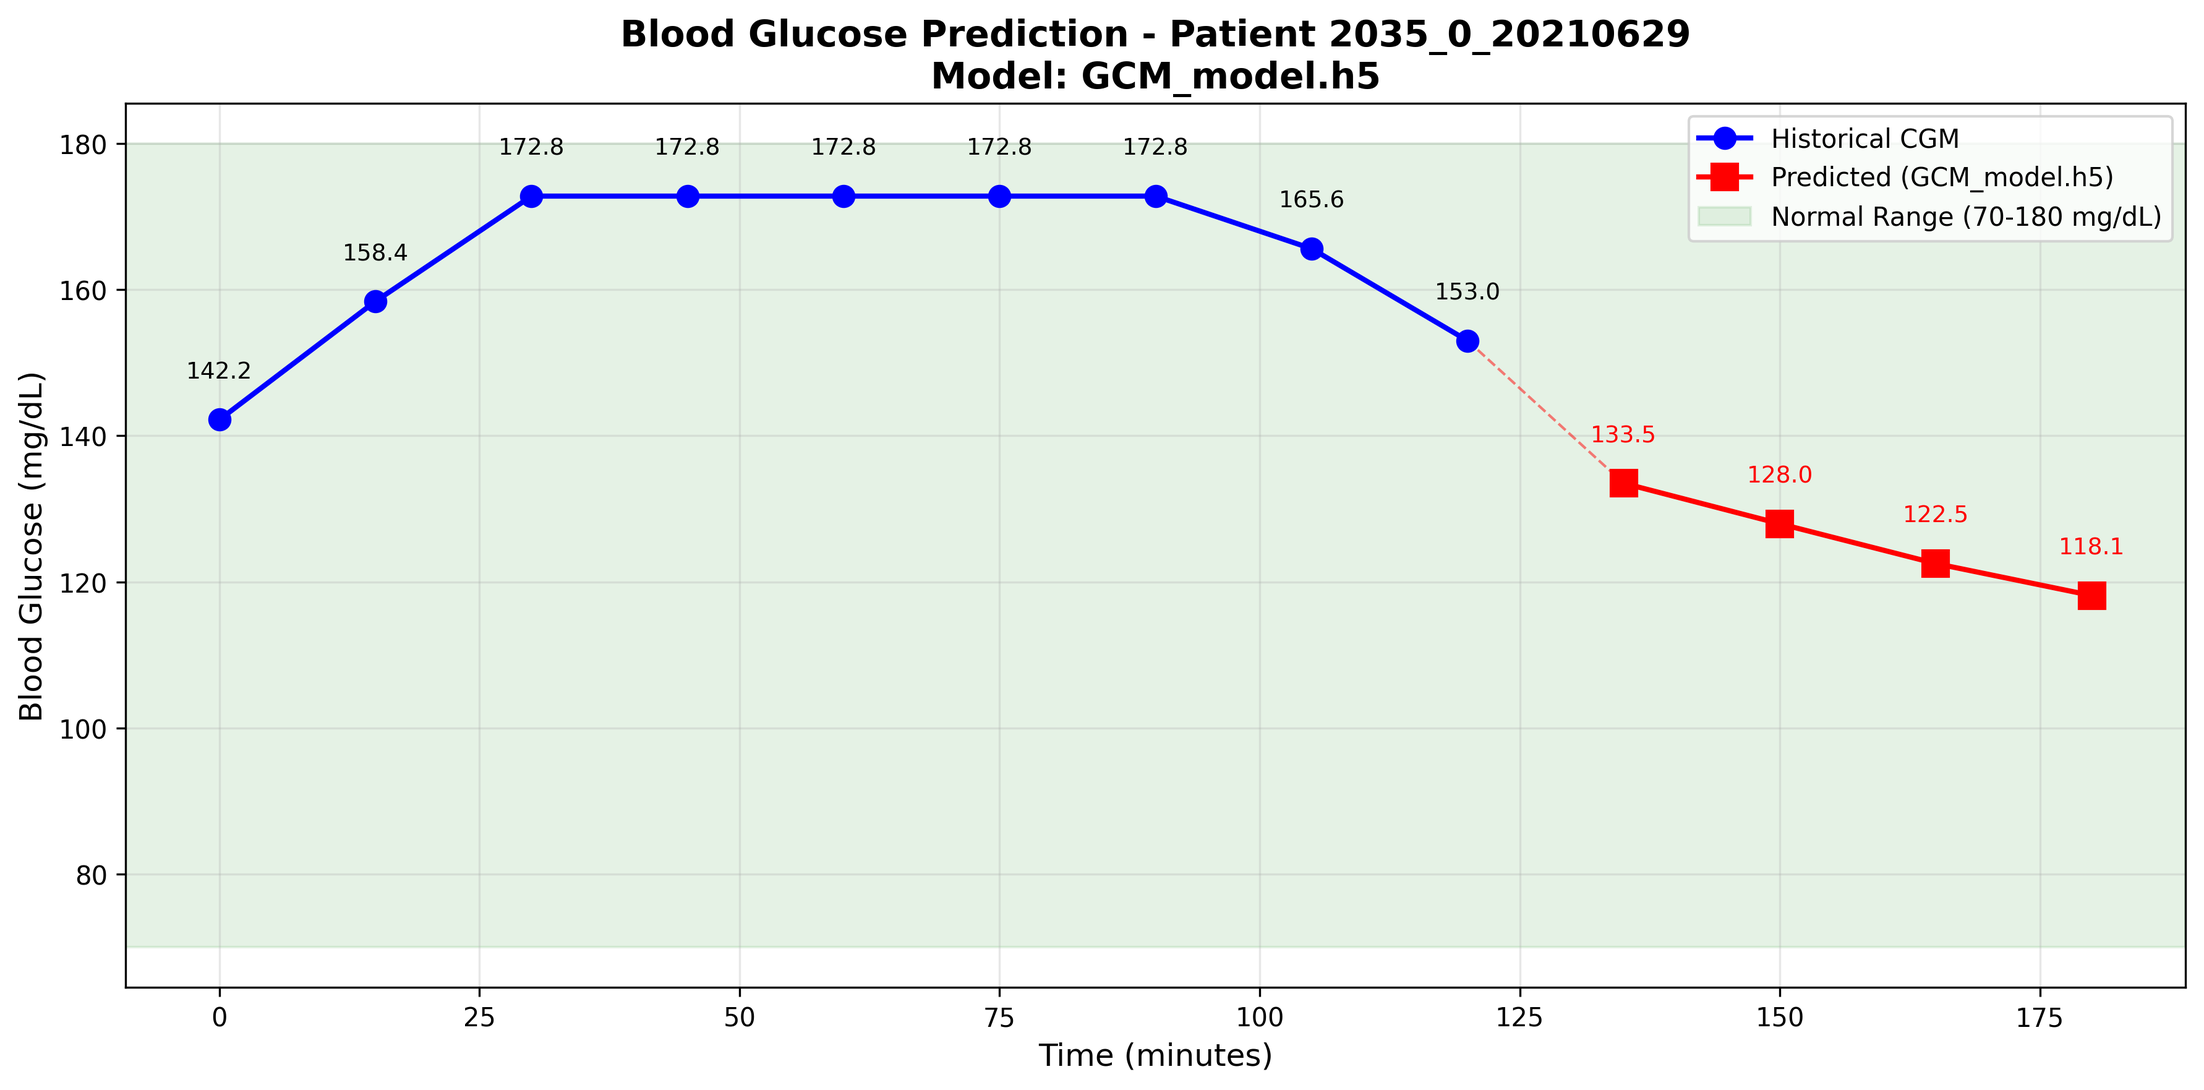
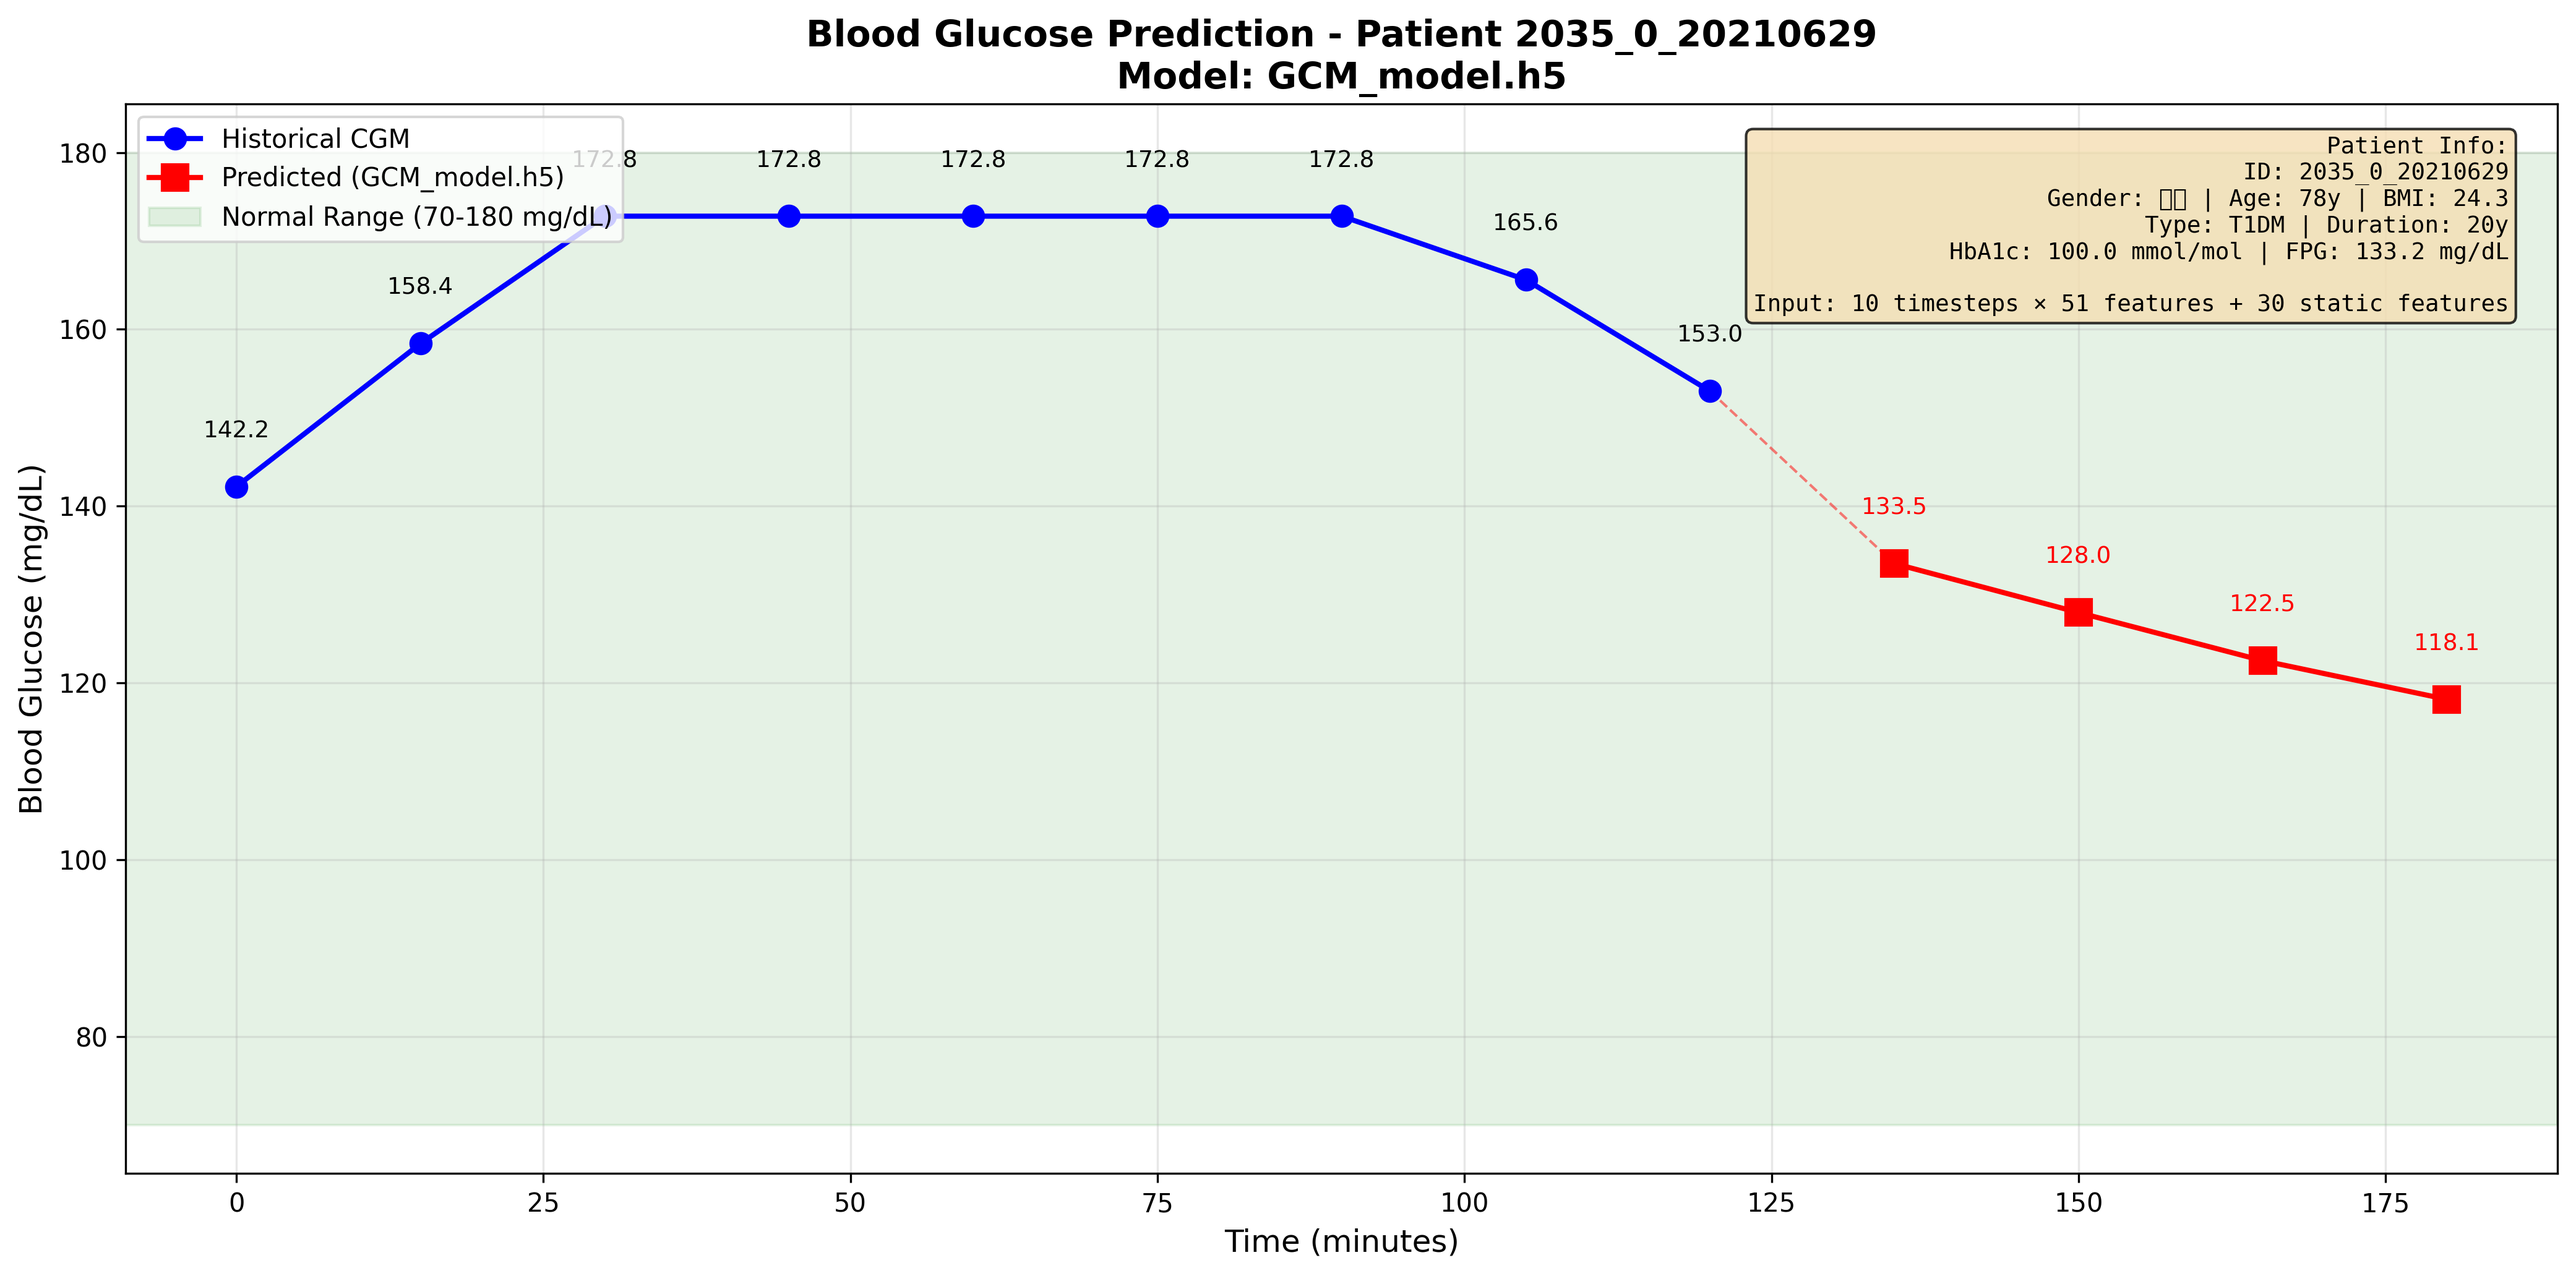
在图片上添加患者信息文本框
改进内容：
- 在所有预测图片右上角添加患者信息文本框
- 显示内容：
  * 患者ID、性别、年龄、BMI
  * 糖尿病类型和病程
  * HbA1c和空腹血糖
  * 模型输入数据维度
- 图片尺寸从(12, 6)增加到(14, 7)以容纳更多信息
- 调整legend位置到左上角避免与信息框重叠
- 使用等宽字体和圆角浅色背景增强可读性

文件更新：
- demo1_gcm_model.py
- demo2_gcm_model_tf213.py
- demo3_tflite_model.py (额外显示TFLite模型大小)
- 重新生成3张预测图片

🤖 Generated with [Claude Code](https://claude.com/claude-code)

diff --git a/demo3_tflite_model.py b/demo3_tflite_model.py
@@ -211,35 +211,51 @@ prediction_times = [time_points[-1] + 15, time_points[-1] + 30,
                    time_points[-1] + 45, time_points[-1] + 60]  # 预测的时间点
 
 # 绘图
-plt.figure(figsize=(12, 6))
+fig, ax = plt.subplots(figsize=(14, 7))
 
 # 历史血糖值
-plt.plot(time_points, cgm_values, 'bo-', linewidth=2, markersize=8, label='Historical CGM', zorder=3)
+ax.plot(time_points, cgm_values, 'bo-', linewidth=2, markersize=8, label='Historical CGM', zorder=3)
 
 # 预测血糖值
-plt.plot(prediction_times, y_pred[0], 'rs-', linewidth=2, markersize=10,
+ax.plot(prediction_times, y_pred[0], 'rs-', linewidth=2, markersize=10,
          label='Predicted (glucose_predictor.tflite)', zorder=3)
 
 # 连接线
-plt.plot([time_points[-1], prediction_times[0]], [cgm_values[-1], y_pred[0][0]],
+ax.plot([time_points[-1], prediction_times[0]], [cgm_values[-1], y_pred[0][0]],
          'r--', alpha=0.5, linewidth=1)
 
 # 添加数值标签
 for i, (t, v) in enumerate(zip(time_points, cgm_values)):
-    plt.text(t, v + 5, f'{v:.1f}', ha='center', va='bottom', fontsize=9)
+    ax.text(t, v + 5, f'{v:.1f}', ha='center', va='bottom', fontsize=9)
 
 for i, (t, v) in enumerate(zip(prediction_times, y_pred[0])):
-    plt.text(t, v + 5, f'{v:.1f}', ha='center', va='bottom', fontsize=9, color='red')
+    ax.text(t, v + 5, f'{v:.1f}', ha='center', va='bottom', fontsize=9, color='red')
 
 # 添加正常血糖范围阴影
-plt.axhspan(70, 180, alpha=0.1, color='green', label='Normal Range (70-180 mg/dL)')
+ax.axhspan(70, 180, alpha=0.1, color='green', label='Normal Range (70-180 mg/dL)')
 
-plt.xlabel('Time (minutes)', fontsize=12)
-plt.ylabel('Blood Glucose (mg/dL)', fontsize=12)
-plt.title('Blood Glucose Prediction - Patient 2035_0_20210629\nModel: glucose_predictor.tflite',
+# 添加患者信息文本框
+patient_info_text = f"""Patient Info:
+ID: 2035_0_20210629
+Gender: {gender_text} | Age: {patient_info['Age (years)']:.0f}y | BMI: {patient_info['BMI (kg/m2)']:.1f}
+Type: {diabetes_type.split()[0]} | Duration: {patient_info['Duration of Diabetes  (years)']:.0f}y
+HbA1c: {patient_info['HbA1c (mmol/mol)']:.1f} mmol/mol | FPG: {patient_info['Fasting Plasma Glucose (mg/dl)']:.1f} mg/dL
+
+Input: 10 timesteps × 51 features + 30 static features
+Model: TFLite (202KB, optimized for mobile)"""
+
+# 在图表右上角添加文本框
+ax.text(0.98, 0.97, patient_info_text, transform=ax.transAxes,
+        fontsize=9, verticalalignment='top', horizontalalignment='right',
+        bbox=dict(boxstyle='round', facecolor='wheat', alpha=0.8),
+        family='monospace')
+
+ax.set_xlabel('Time (minutes)', fontsize=12)
+ax.set_ylabel('Blood Glucose (mg/dL)', fontsize=12)
+ax.set_title('Blood Glucose Prediction - Patient 2035_0_20210629\nModel: glucose_predictor.tflite',
           fontsize=14, fontweight='bold')
-plt.legend(loc='best', fontsize=10)
-plt.grid(True, alpha=0.3)
+ax.legend(loc='upper left', fontsize=10)
+ax.grid(True, alpha=0.3)
 plt.tight_layout()
 
 # 保存图片

diff --git a/demo2_gcm_model_tf213.py b/demo2_gcm_model_tf213.py
@@ -186,35 +186,50 @@ prediction_times = [time_points[-1] + 15, time_points[-1] + 30,
                    time_points[-1] + 45, time_points[-1] + 60]  # 预测的时间点
 
 # 绘图
-plt.figure(figsize=(12, 6))
+fig, ax = plt.subplots(figsize=(14, 7))
 
 # 历史血糖值
-plt.plot(time_points, cgm_values, 'bo-', linewidth=2, markersize=8, label='Historical CGM', zorder=3)
+ax.plot(time_points, cgm_values, 'bo-', linewidth=2, markersize=8, label='Historical CGM', zorder=3)
 
 # 预测血糖值
-plt.plot(prediction_times, y_pred[0], 'rs-', linewidth=2, markersize=10,
+ax.plot(prediction_times, y_pred[0], 'rs-', linewidth=2, markersize=10,
          label='Predicted (GCM_model_tf213_new.h5)', zorder=3)
 
 # 连接线
-plt.plot([time_points[-1], prediction_times[0]], [cgm_values[-1], y_pred[0][0]],
+ax.plot([time_points[-1], prediction_times[0]], [cgm_values[-1], y_pred[0][0]],
          'r--', alpha=0.5, linewidth=1)
 
 # 添加数值标签
 for i, (t, v) in enumerate(zip(time_points, cgm_values)):
-    plt.text(t, v + 5, f'{v:.1f}', ha='center', va='bottom', fontsize=9)
+    ax.text(t, v + 5, f'{v:.1f}', ha='center', va='bottom', fontsize=9)
 
 for i, (t, v) in enumerate(zip(prediction_times, y_pred[0])):
-    plt.text(t, v + 5, f'{v:.1f}', ha='center', va='bottom', fontsize=9, color='red')
+    ax.text(t, v + 5, f'{v:.1f}', ha='center', va='bottom', fontsize=9, color='red')
 
 # 添加正常血糖范围阴影
-plt.axhspan(70, 180, alpha=0.1, color='green', label='Normal Range (70-180 mg/dL)')
+ax.axhspan(70, 180, alpha=0.1, color='green', label='Normal Range (70-180 mg/dL)')
 
-plt.xlabel('Time (minutes)', fontsize=12)
-plt.ylabel('Blood Glucose (mg/dL)', fontsize=12)
-plt.title('Blood Glucose Prediction - Patient 2035_0_20210629\nModel: GCM_model_tf213_new.h5',
+# 添加患者信息文本框
+patient_info_text = f"""Patient Info:
+ID: 2035_0_20210629
+Gender: {gender_text} | Age: {patient_info['Age (years)']:.0f}y | BMI: {patient_info['BMI (kg/m2)']:.1f}
+Type: {diabetes_type.split()[0]} | Duration: {patient_info['Duration of Diabetes  (years)']:.0f}y
+HbA1c: {patient_info['HbA1c (mmol/mol)']:.1f} mmol/mol | FPG: {patient_info['Fasting Plasma Glucose (mg/dl)']:.1f} mg/dL
+
+Input: 10 timesteps × 51 features + 30 static features"""
+
+# 在图表右上角添加文本框
+ax.text(0.98, 0.97, patient_info_text, transform=ax.transAxes,
+        fontsize=9, verticalalignment='top', horizontalalignment='right',
+        bbox=dict(boxstyle='round', facecolor='wheat', alpha=0.8),
+        family='monospace')
+
+ax.set_xlabel('Time (minutes)', fontsize=12)
+ax.set_ylabel('Blood Glucose (mg/dL)', fontsize=12)
+ax.set_title('Blood Glucose Prediction - Patient 2035_0_20210629\nModel: GCM_model_tf213_new.h5',
           fontsize=14, fontweight='bold')
-plt.legend(loc='best', fontsize=10)
-plt.grid(True, alpha=0.3)
+ax.legend(loc='upper left', fontsize=10)
+ax.grid(True, alpha=0.3)
 plt.tight_layout()
 
 # 保存图片

diff --git a/demo1_gcm_model.py b/demo1_gcm_model.py
@@ -186,35 +186,50 @@ prediction_times = [time_points[-1] + 15, time_points[-1] + 30,
                    time_points[-1] + 45, time_points[-1] + 60]  # 预测的时间点
 
 # 绘图
-plt.figure(figsize=(12, 6))
+fig, ax = plt.subplots(figsize=(14, 7))
 
 # 历史血糖值
-plt.plot(time_points, cgm_values, 'bo-', linewidth=2, markersize=8, label='Historical CGM', zorder=3)
+ax.plot(time_points, cgm_values, 'bo-', linewidth=2, markersize=8, label='Historical CGM', zorder=3)
 
 # 预测血糖值
-plt.plot(prediction_times, y_pred[0], 'rs-', linewidth=2, markersize=10,
+ax.plot(prediction_times, y_pred[0], 'rs-', linewidth=2, markersize=10,
          label='Predicted (GCM_model.h5)', zorder=3)
 
 # 连接线
-plt.plot([time_points[-1], prediction_times[0]], [cgm_values[-1], y_pred[0][0]],
+ax.plot([time_points[-1], prediction_times[0]], [cgm_values[-1], y_pred[0][0]],
          'r--', alpha=0.5, linewidth=1)
 
 # 添加数值标签
 for i, (t, v) in enumerate(zip(time_points, cgm_values)):
-    plt.text(t, v + 5, f'{v:.1f}', ha='center', va='bottom', fontsize=9)
+    ax.text(t, v + 5, f'{v:.1f}', ha='center', va='bottom', fontsize=9)
 
 for i, (t, v) in enumerate(zip(prediction_times, y_pred[0])):
-    plt.text(t, v + 5, f'{v:.1f}', ha='center', va='bottom', fontsize=9, color='red')
+    ax.text(t, v + 5, f'{v:.1f}', ha='center', va='bottom', fontsize=9, color='red')
 
 # 添加正常血糖范围阴影
-plt.axhspan(70, 180, alpha=0.1, color='green', label='Normal Range (70-180 mg/dL)')
+ax.axhspan(70, 180, alpha=0.1, color='green', label='Normal Range (70-180 mg/dL)')
 
-plt.xlabel('Time (minutes)', fontsize=12)
-plt.ylabel('Blood Glucose (mg/dL)', fontsize=12)
-plt.title('Blood Glucose Prediction - Patient 2035_0_20210629\nModel: GCM_model.h5',
+# 添加患者信息文本框
+patient_info_text = f"""Patient Info:
+ID: 2035_0_20210629
+Gender: {gender_text} | Age: {patient_info['Age (years)']:.0f}y | BMI: {patient_info['BMI (kg/m2)']:.1f}
+Type: {diabetes_type.split()[0]} | Duration: {patient_info['Duration of Diabetes  (years)']:.0f}y
+HbA1c: {patient_info['HbA1c (mmol/mol)']:.1f} mmol/mol | FPG: {patient_info['Fasting Plasma Glucose (mg/dl)']:.1f} mg/dL
+
+Input: 10 timesteps × 51 features + 30 static features"""
+
+# 在图表右上角添加文本框
+ax.text(0.98, 0.97, patient_info_text, transform=ax.transAxes,
+        fontsize=9, verticalalignment='top', horizontalalignment='right',
+        bbox=dict(boxstyle='round', facecolor='wheat', alpha=0.8),
+        family='monospace')
+
+ax.set_xlabel('Time (minutes)', fontsize=12)
+ax.set_ylabel('Blood Glucose (mg/dL)', fontsize=12)
+ax.set_title('Blood Glucose Prediction - Patient 2035_0_20210629\nModel: GCM_model.h5',
           fontsize=14, fontweight='bold')
-plt.legend(loc='best', fontsize=10)
-plt.grid(True, alpha=0.3)
+ax.legend(loc='upper left', fontsize=10)
+ax.grid(True, alpha=0.3)
 plt.tight_layout()
 
 # 保存图片
